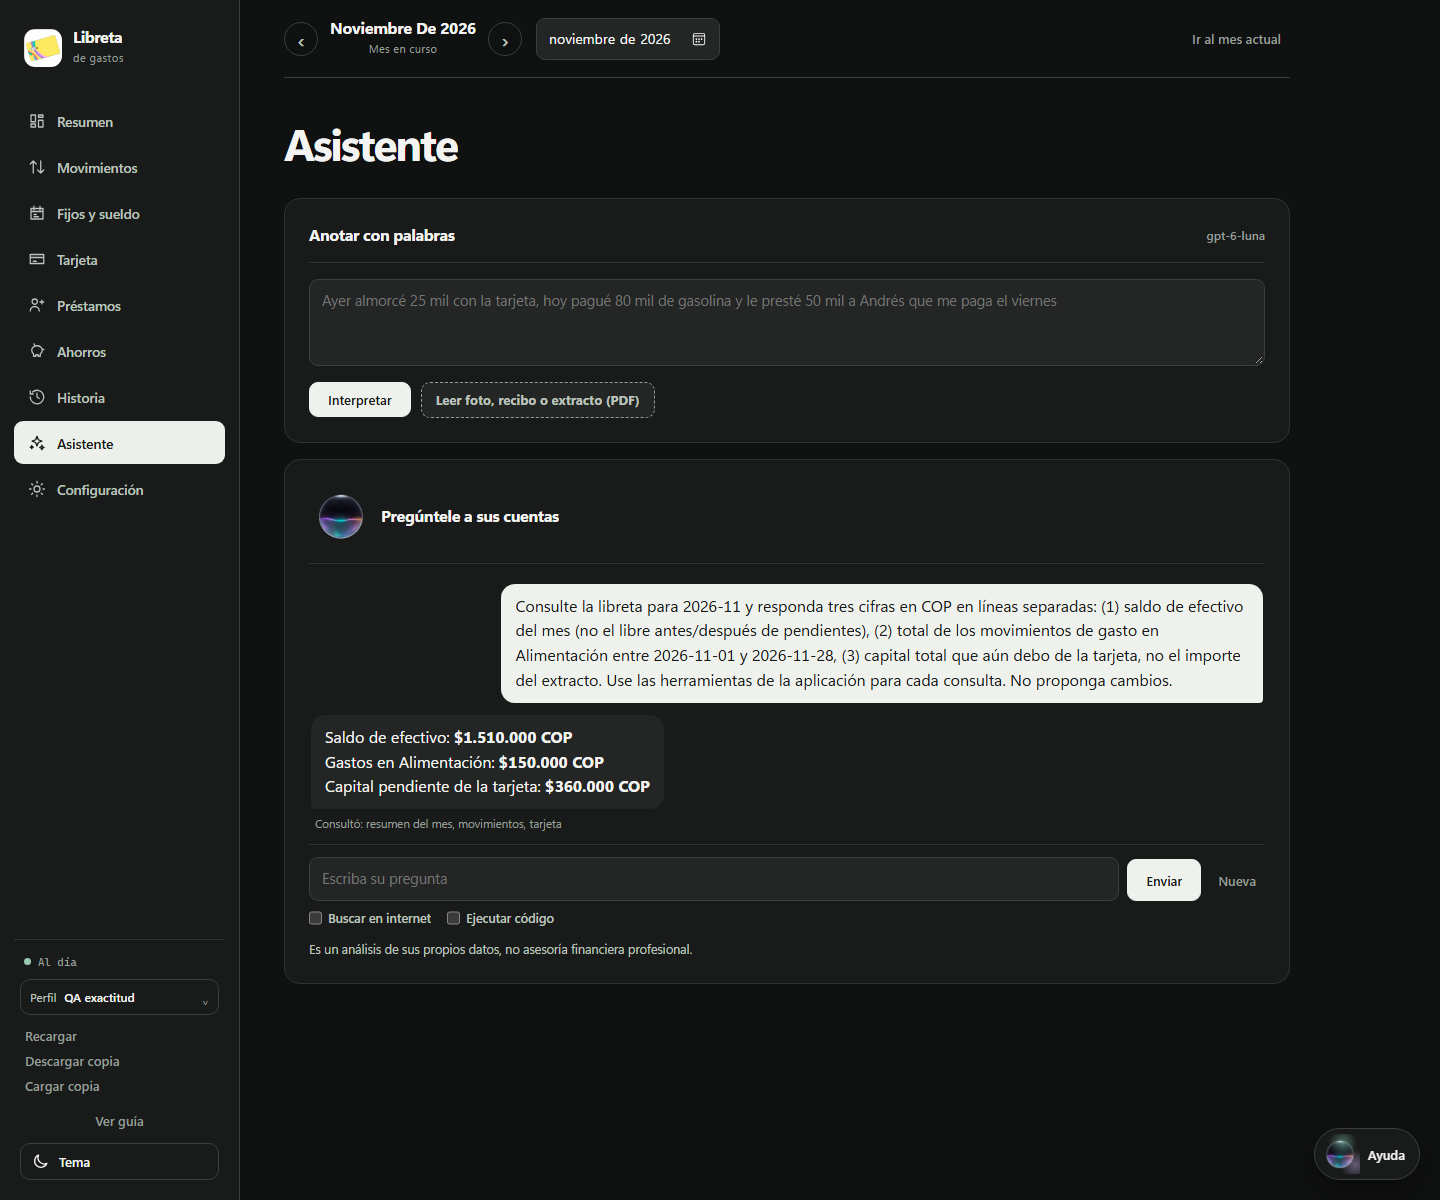
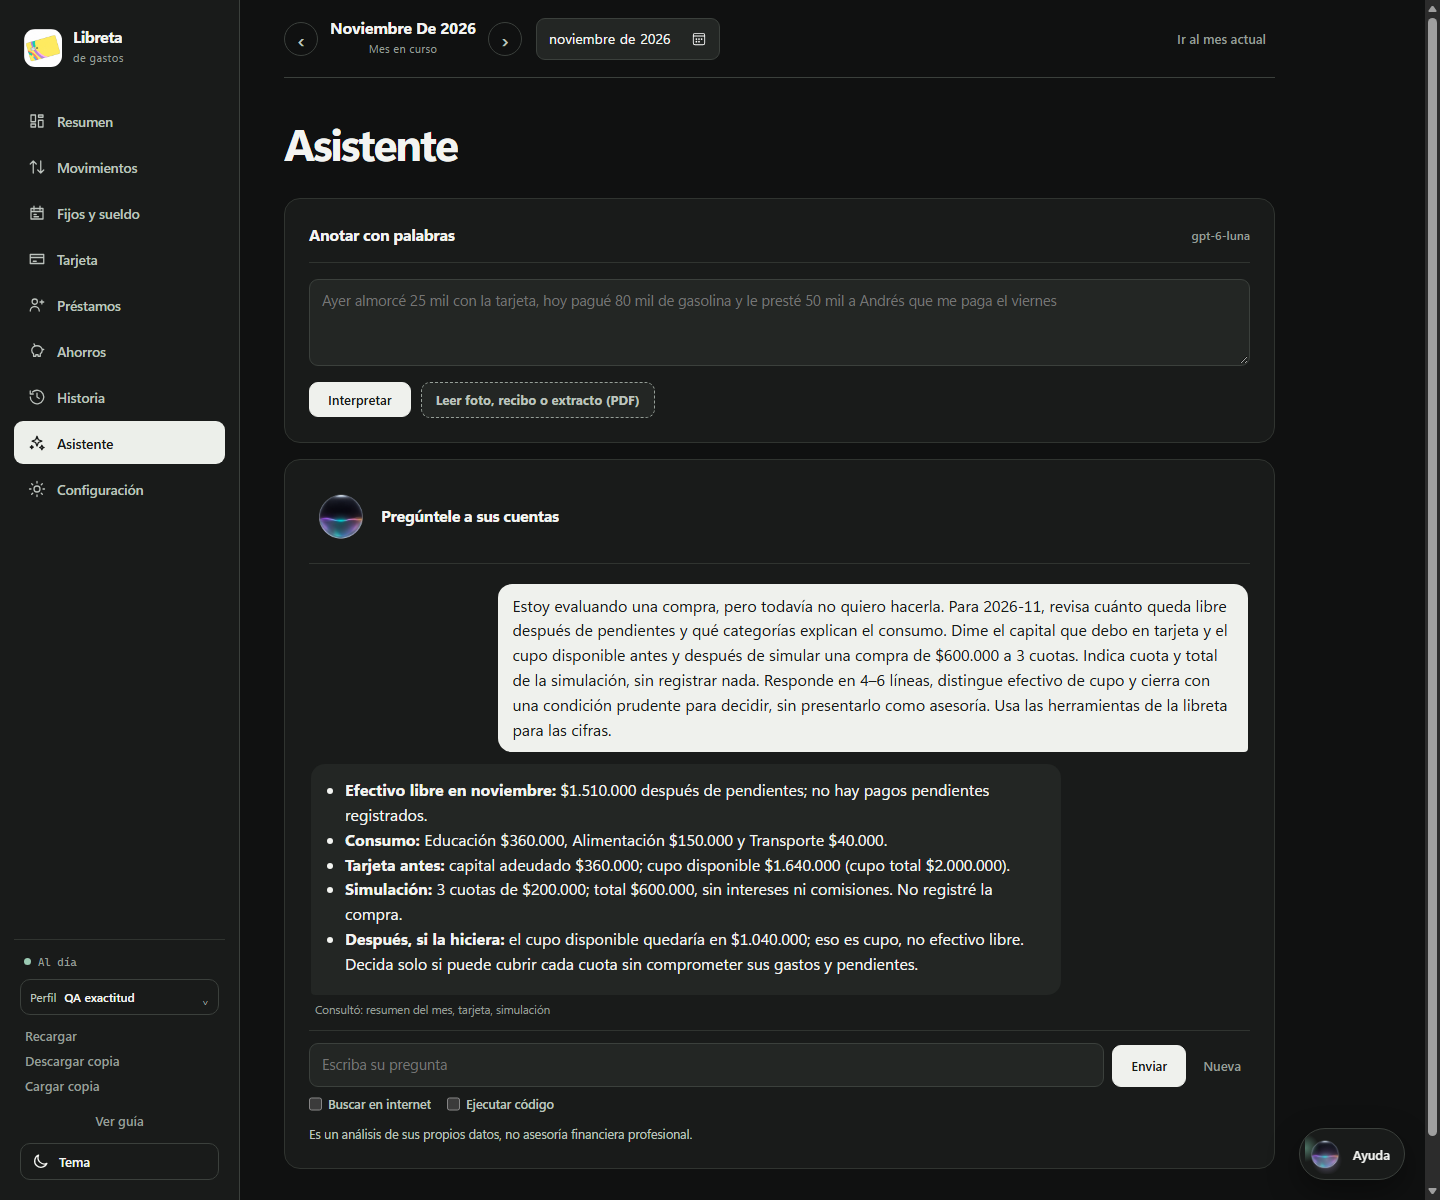
Ilustra el análisis de gastos y la simulación de compra

diff --git a/README.md b/README.md
@@ -12,11 +12,11 @@ App de escritorio para Windows para gestionar movimientos, presupuestos, tarjeta
 
 **Explicar un campo.** Desde Tarjeta, abre **Ayuda → Preguntar al asistente**. Si preguntas «¿Qué significa cupo?», el asistente usa el contexto de Tarjeta para explicar que es el límite de crédito.
 
-**Consultar la libreta.** En una prueba con datos ficticios, el asistente leyó el saldo del mes (1.510.000 COP), los gastos de alimentación (150.000 COP) y el capital pendiente de la tarjeta (360.000 COP).
+**Evaluar una compra.** En la captura, el asistente revisa cuánto efectivo queda, desglosa el consumo por categoría y distingue la deuda del cupo disponible. Después simula una compra ficticia de 600.000 COP a tres cuotas y muestra que el cupo pasaría de 1.640.000 a 1.040.000 COP. La simulación no crea ningún movimiento.
 
 **Proponer un movimiento.** Si escribes «Anota 13.000 pesos de café», el chat presenta una propuesta editable. El gasto se guarda cuando pulsas **Anotar 1 movimiento**.
 
-![Chat del asistente mostrando una consulta de saldo, gastos y deuda con datos ficticios](docs/capturas/asistente.png)
+![Chat del asistente con un análisis del mes y una simulación de compra a tres cuotas con datos ficticios](docs/capturas/asistente.png)
 
 ## Ejecutar
 
